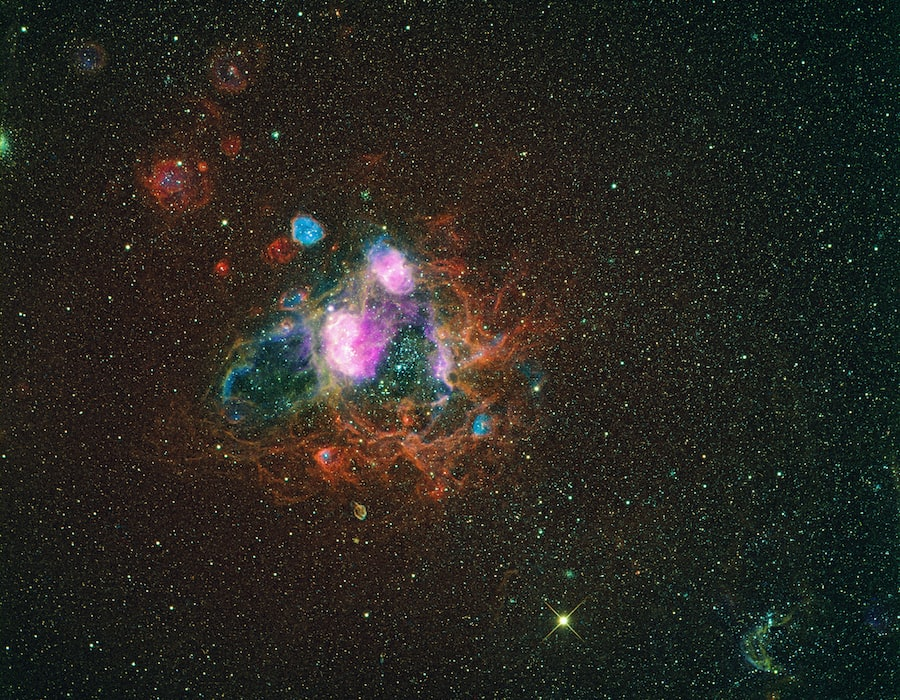
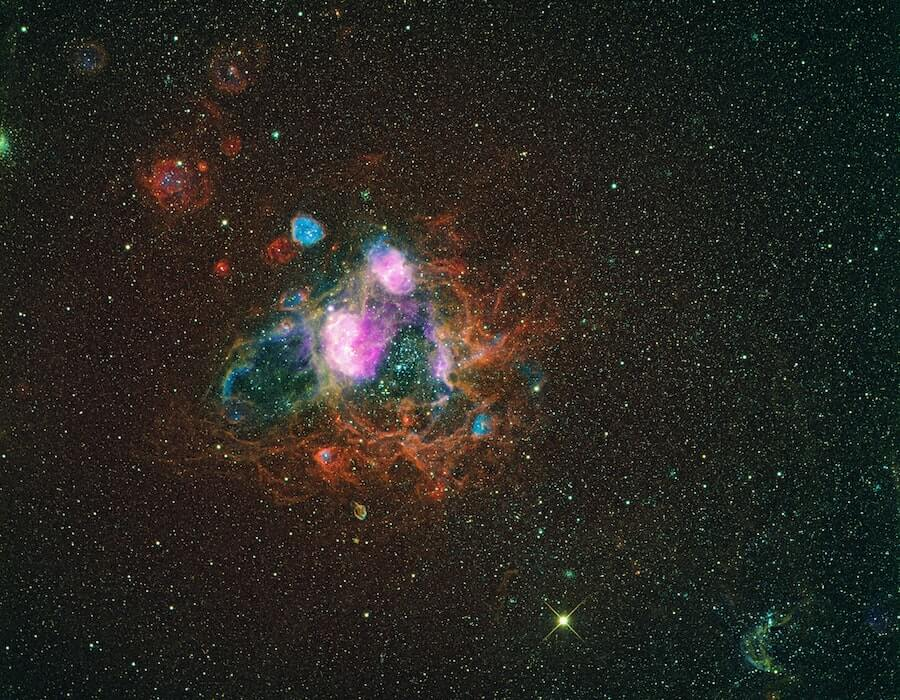
Replaced images with smaller images (tinypng)

Changed region(s): [[0.9956, 0.72, 1.0, 0.75]]

diff --git a/drumkit/drumkit.js b/drumkit/drumkit.js
@@ -40,5 +40,5 @@ window.addEventListener('keydown', playSound)
 if ('caches' in window){
     // you can safely insert your snippet here
     console.log('has caching')
-    alert('has cache')
+    // alert('has cache')
 }

diff --git a/portfolio_01/styles.css b/portfolio_01/styles.css
@@ -177,7 +177,6 @@ a {
 
 .followMouse {
     position: absolute;
-
     width: 500px;
     height: 500px;
     object-fit: cover;
